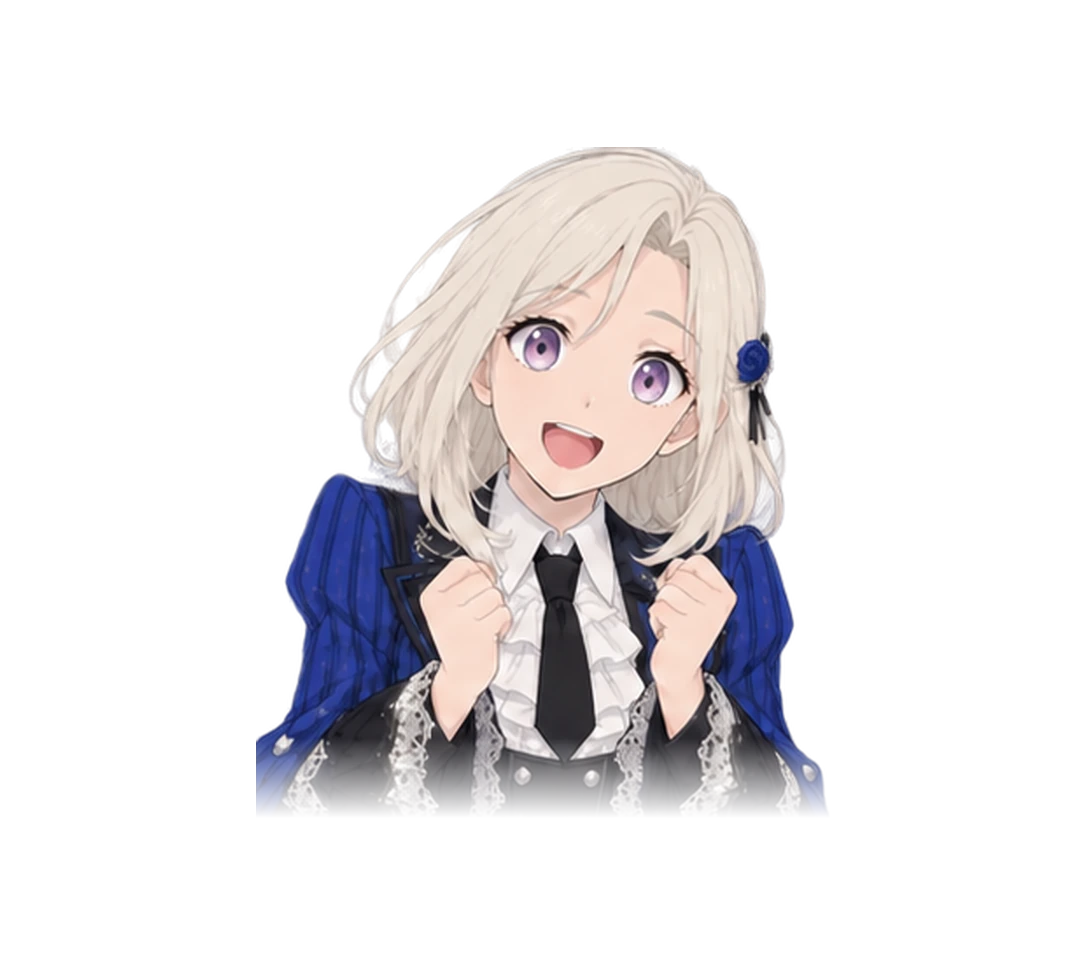
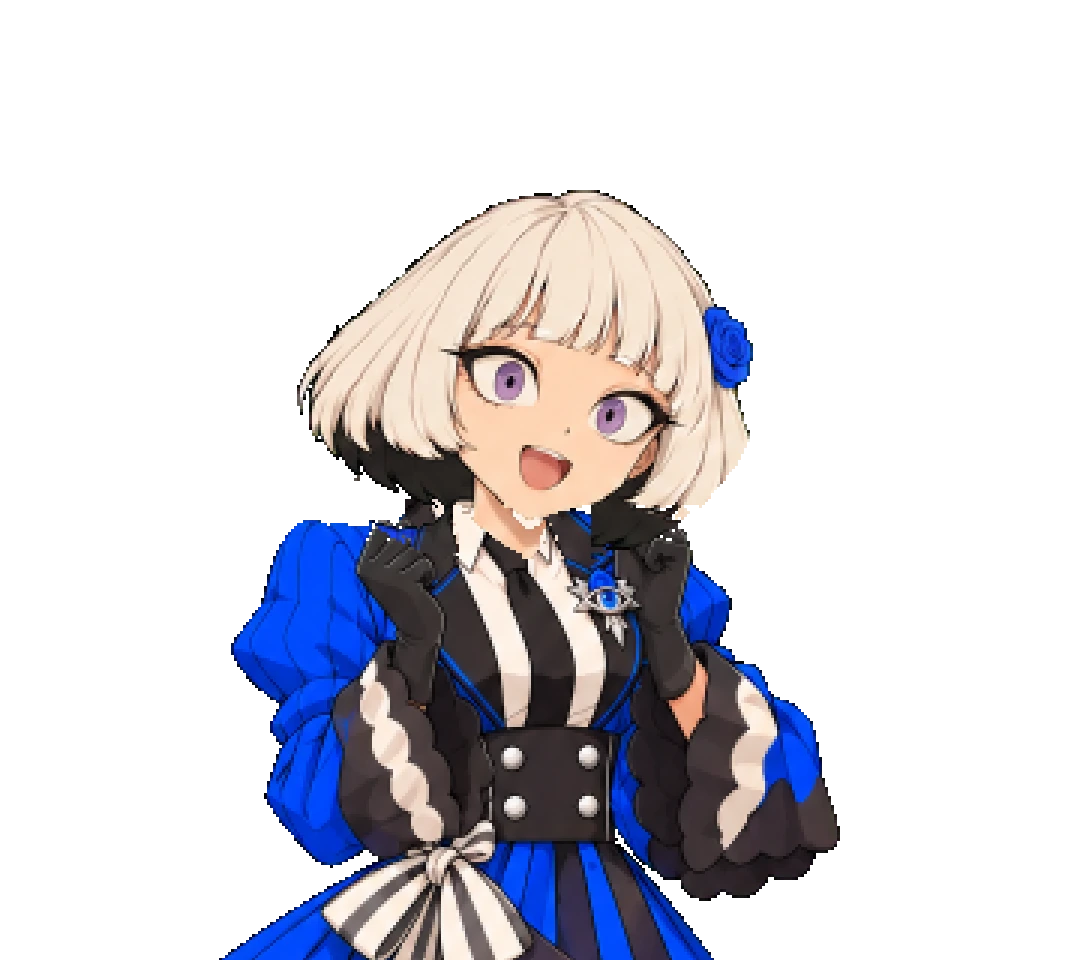
Melissa nova nas cenas do jogo: as 12 poses aprovadas do protótipo, piscando
Prólogo, Calendário, chamada das Corporações e medalhões usam a arte nova (escala inteira 3x).

Changed region(s): [[0.2139, 0.1562, 0.7944, 1.0]]

diff --git a/components/devo/kit/npc-anchor.tsx b/components/devo/kit/npc-anchor.tsx
@@ -1,6 +1,6 @@
 'use client'
 
-import { useLayoutEffect, useRef, useState, type CSSProperties, type ReactNode, type RefObject } from 'react'
+import { useEffect, useLayoutEffect, useRef, useState, type CSSProperties, type ReactNode, type RefObject } from 'react'
 import { npcPortrait, resolveExpressao } from '@/lib/devo/npcs'
 import ROSTOS from '@/lib/devo/npc-rostos.json'
 import { cn } from '@/lib/utils'
@@ -41,6 +41,38 @@ const ROSTO: Record<string, { cx: number; cy: number; lado: number }> = {
   rato: { cx: 415, cy: 380, lado: 560 },
 }
 const ROSTO_PADRAO = { cx: 540, cy: 335, lado: 560 }
+
+/**
+ * Poses que piscam: o quadro de olhos fechados fica em /images/npc/<npc>/<pose>-pisca.webp (mesma tela do sprite).
+ * Melissa nova (DEVO v2, aprovada no protótipo kit3: "o retrato agora só pisca"); as poses de olhos já fechados não piscam.
+ */
+const PISCA: Record<string, readonly string[]> = {
+  melissa: ['convite', 'explica', 'preocupado', 'pensativo', 'confiante', 'surpreso', 'animado', 'apresenta', 'triste'],
+}
+
+/** Pisca de tempos em tempos (3,5 a 7,5 s, 160 ms de olho fechado); parado com movimento reduzido. */
+function usePisca(ligado: boolean) {
+  const [fechado, setFechado] = useState(false)
+  useEffect(() => {
+    if (!ligado || typeof window === 'undefined' || window.matchMedia('(prefers-reduced-motion: reduce)').matches) return
+    let t = 0
+    const agenda = () => {
+      t = window.setTimeout(() => {
+        setFechado(true)
+        t = window.setTimeout(() => {
+          setFechado(false)
+          agenda()
+        }, 160)
+      }, 3500 + Math.random() * 4000)
+    }
+    agenda()
+    return () => {
+      window.clearTimeout(t)
+      setFechado(false)
+    }
+  }, [ligado])
+  return fechado
+}
 
 /**
  * Janela do rosto da EXPRESSÃO (a cabeça muda de lugar entre as poses): medida na própria imagem por
@@ -191,6 +223,8 @@ export function NpcAnchor({
   const ratio = (base - topo) / NPC_SPRITE.cabeca
   const atual = resolveExpressao(npc, pose)
   const lista = Array.from(new Set([...(poses ?? []).map((p) => resolveExpressao(npc, p)), atual]))
+  const pisca = PISCA[npc]?.includes(atual) ?? false
+  const fechado = usePisca(pisca)
   const altura = pos ? `min(calc(${cabeca} * ${ratio.toFixed(4)}), ${pos.espaco + sobreposicao}px)` : `calc(${cabeca} * ${ratio.toFixed(4)})`
   return (
     <div
@@ -215,6 +249,11 @@ export function NpcAnchor({
           return (
             <div key={p} className={cn('npc-pose absolute inset-0 overflow-hidden transition-opacity duration-500', p === atual ? 'opacity-100' : 'opacity-0')}>
               <BustArt npc={npc} src={src} fade={dissolver} overlay={p === atual ? sobreArte : undefined} />
+              {p === atual && pisca && (
+                <div className={cn('absolute inset-0 overflow-hidden', !fechado && 'opacity-0')}>
+                  <BustArt npc={npc} src={src.replace(/\.webp$/, '-pisca.webp')} fade={dissolver} />
+                </div>
+              )}
             </div>
           )
         })}
